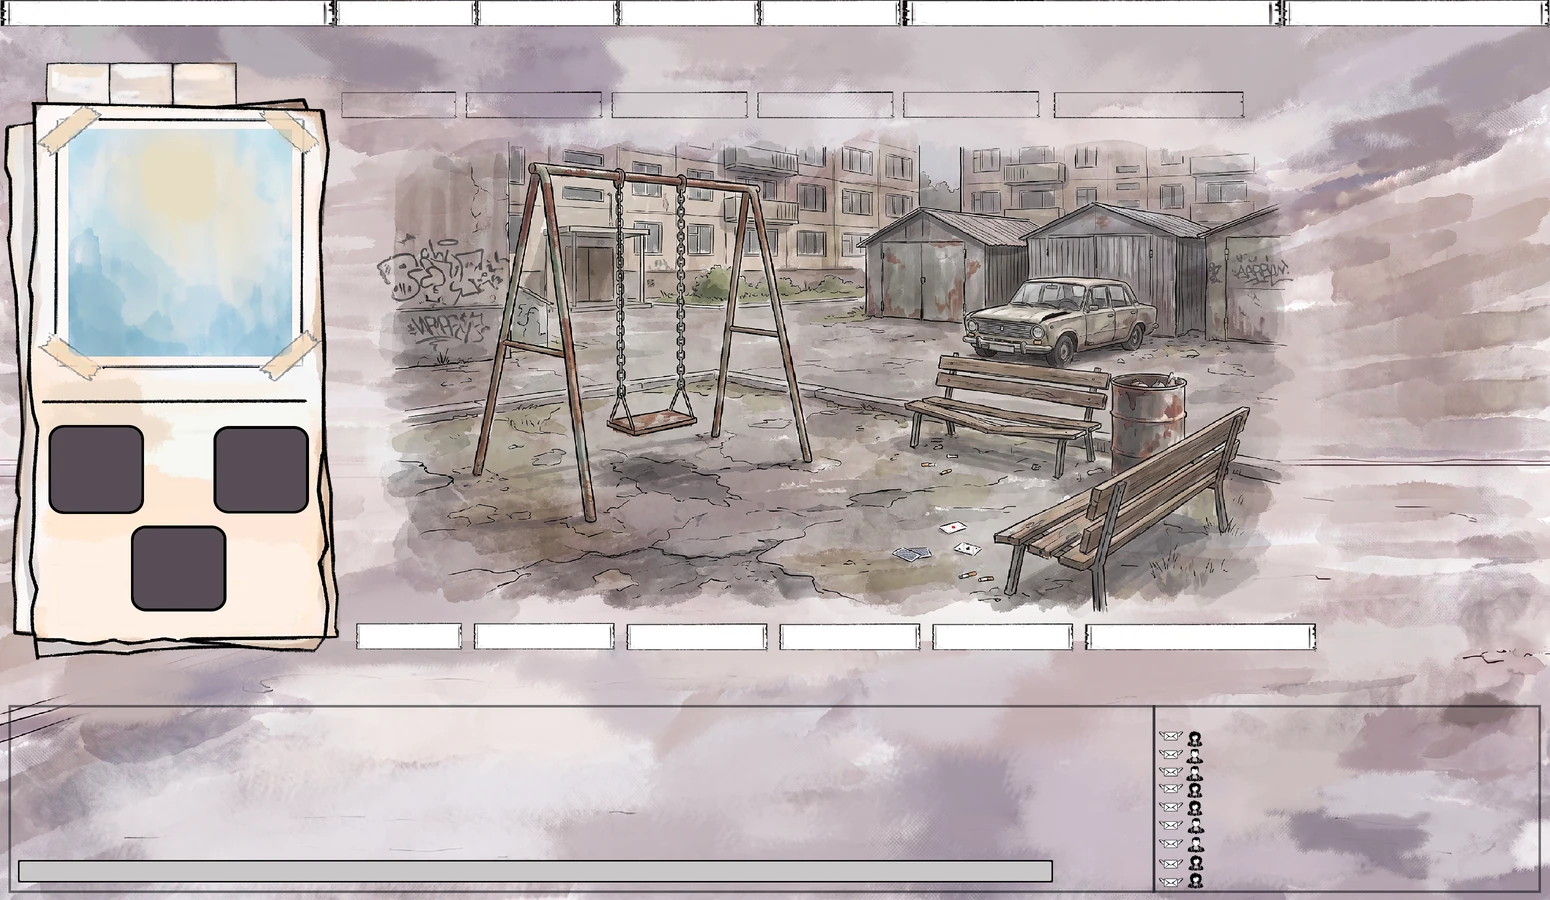
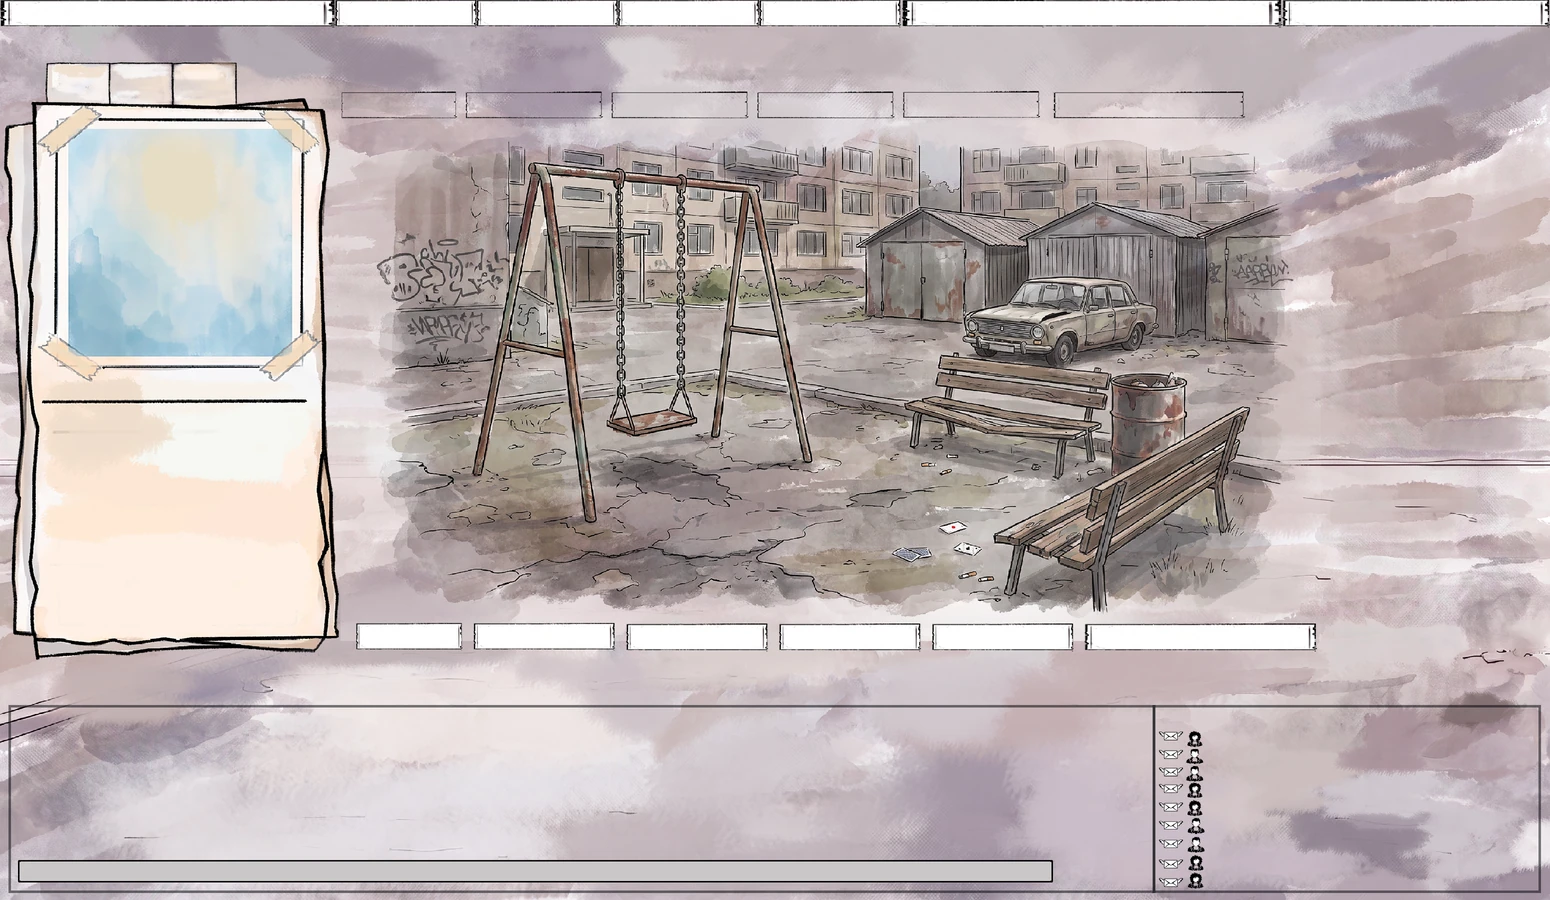
Рамки слотов вырезаны из подложки и прячутся на других вкладках
Прошлый заход был халтурой: списки клались поверх карточки листом
подходящего цвета, чтобы перекрыть напечатанные рамки слотов. Рамки —
это отдельные слои-фигуры («Прямоугольник 7») в PSD, поэтому подложка
пересобрана без них, а сами рамки стали спрайтами и рисуются только
на вкладке обзора. На вкладках со списками бумага остаётся чистой.

Поле под текст посчитано по реальному контуру бумаги: край рваный и в
самом узком месте сходится к 33.5…323.5, поэтому поле уже, чем сама
карточка. Полоса прокрутки скрыта — она забирала ширину и обрезала
значения справа. В снаряжении показываем пять строк и «ещё N →»,
чтобы последняя строка не резалась нижним краем.

Changed region(s): [[0.031, 0.4667, 0.2168, 0.6844]]

diff --git a/frontend/src/widgets/character-card/character-card.tsx b/frontend/src/widgets/character-card/character-card.tsx
@@ -36,6 +36,9 @@ function weaponSprite(item: ItemInstance | undefined): string {
   return 'item-bat'
 }
 
+/** Строк снаряжения помещается в бумагу карточки; остальное — ссылкой. */
+const GEAR_ROWS = 5
+
 export function CharacterCard() {
   const navigate = useNavigate()
   const [tab, setTab] = useState<CardTab>('overview')
@@ -134,7 +137,10 @@ export function CharacterCard() {
       {/* ── тело карточки: зависит от выбранной вкладки ──── */}
       {tab === 'overview' && (
         <>
-          {/* слоты снаряжения */}
+          {/* рамки слотов: вырезаны из подложки, поэтому рисуем их сами
+              и только здесь — на других вкладках карточка остаётся чистой */}
+          {C.slots.map(s => <Sprite key={s.key} name={`slot-frame-${s.key}`} box={s.frame} />)}
+
           <SpriteButton
             name={weaponSprite(weapon)}
             box={C.slots[0].box}
@@ -187,10 +193,10 @@ export function CharacterCard() {
       )}
 
       {tab === 'gear' && (
-        <Layer box={C.body} className="card-list card-list--sheet">
+        <Layer box={C.body} className="card-list">
           <div className="card-list__title">Надето</div>
           {equipped.length === 0 && <div className="card-list__empty">Ничего не надето</div>}
-          {equipped.map(i => (
+          {equipped.slice(0, GEAR_ROWS).map(i => (
             <button
               key={i.id}
               type="button"
@@ -206,11 +212,16 @@ export function CharacterCard() {
               <span className="card-list__dur">{i.durabilityCurrent}/{i.durabilityMax}</span>
             </button>
           ))}
+          {equipped.length > GEAR_ROWS && (
+            <button type="button" className="card-list__more" onClick={() => navigate('/inventory')}>
+              ещё {equipped.length - GEAR_ROWS} →
+            </button>
+          )}
         </Layer>
       )}
 
       {tab === 'person' && (
-        <Layer box={C.body} className="card-list card-list--sheet">
+        <Layer box={C.body} className="card-list">
           <div className="card-list__title">Личное дело</div>
           <div className="card-list__kv"><span>Уровень</span><b>{char?.battleLevel ?? '—'}</b></div>
           <div className="card-list__kv"><span>Здоровье</span><b>{hp} / {char?.hpMax ?? '—'}</b></div>

diff --git a/frontend/src/shared/lib/layout-map.ts b/frontend/src/shared/lib/layout-map.ts
@@ -70,16 +70,20 @@ export const MENU = {
     energyText: { x: 76.5, y: 189, w: 18.5 },
     hpText: { x: 240.5, y: 189, w: 39.5 },
     nickname: { x: 132.5, y: 377.5, w: 78, size: 22.7 },
+    /** frame — рамка слота, вырезанная из подложки отдельным спрайтом:
+        на вкладках со списками её нужно убирать, иначе текст ложится на неё.
+        box — габариты самого предмета внутри рамки. */
     slots: [
-      { key: 'weapon', box: box(57, 429, 78, 79), sprite: 'item-ak' },
-      { key: 'offhand', box: box(220.5, 442, 77, 63.5), sprite: 'item-bat' },
-      { key: 'pet', box: box(150.5, 527, 57.5, 83), sprite: 'item-dog' },
+      { key: 'weapon', frame: box(47.5, 424, 97.5, 91), box: box(57, 429, 78, 79), sprite: 'item-ak' },
+      { key: 'offhand', frame: box(213, 425.5, 96.5, 89), box: box(220.5, 442, 77, 63.5), sprite: 'item-bat' },
+      { key: 'pet', frame: box(130.5, 525, 96.5, 87), box: box(150.5, 527, 57.5, 83), sprite: 'item-dog' },
     ],
     /** свободное поле под ником: сюда ложатся вкладки «надето» и «личное дело».
-        Рамки слотов напечатаны на подложке, поэтому лист кладём поверх них. */
-    body: box(15.5, 406, 313, 252),
+        Границы взяты по реальному контуру бумаги: край рваный, и в самом
+        узком месте она сходится к 33.5…323.5, поэтому поле уже, чем бумага. */
+    body: box(36, 406, 282, 236),
     /** подпись выбранной зоны — под слотами, ещё внутри бумаги */
-    zoneNote: box(15.5, 618, 313, 26),
+    zoneNote: box(36, 620, 282, 24),
     /** полоска над портретом: клик по ней уводит в личное дело */
     topStrip: box(8, 100, 328, 30),
     /** зоны тела — те же пять, что в боевой системе */

diff --git a/frontend/src/styles/theme.css b/frontend/src/styles/theme.css
@@ -459,14 +459,15 @@ html, body {
   font-family: var(--font-ui); font-size: 17px; color: #17130f;
   border-top: 1px solid rgba(43, 43, 43, .35); padding-top: 4px;
 }
-.card-list { font-family: var(--font-ui); font-size: 16px; color: #17130f; overflow-y: auto; }
-/* Рамки слотов напечатаны на подложке карточки, поэтому вкладки со
-   списками кладём поверх листом бумаги — иначе текст ложится на них. */
-.card-list--sheet {
-  box-sizing: border-box; padding: 6px 12px 8px;
-  background: #fdefe4; border: 1px solid rgba(43, 43, 43, .5);
-  box-shadow: 0 2px 6px rgba(23, 19, 15, .25);
+.card-list {
+  font-family: var(--font-ui); font-size: 16px; color: #17130f;
+  overflow-y: auto;
+  /* полосу прокрутки прячем: она забирает ширину у строк и обрезает
+     значения справа, а список тут короткий и листается колесом */
+  scrollbar-width: none;
 }
+.card-list::-webkit-scrollbar { width: 0; height: 0; }
+
 .card-list__title {
   font-family: var(--font-sign); text-transform: uppercase; font-weight: 700;
   font-size: 19px; border-bottom: 1px solid #2b2b2b; padding-bottom: 3px; margin-bottom: 6px;
@@ -483,11 +484,11 @@ html, body {
 .card-list__meta { color: var(--text-dim); font-size: 14px; }
 .card-list__dur  { color: var(--durability); font-size: 14px; }
 .card-list__kv {
-  display: flex; justify-content: space-between; padding: 3px 2px;
+  display: flex; justify-content: space-between; padding: 2px 2px;
   border-bottom: 1px dotted rgba(43, 43, 43, .3);
 }
 .card-list__more {
-  margin-top: 10px; background: none; border: 0; padding: 0; cursor: pointer;
+  margin-top: 4px; background: none; border: 0; padding: 0; cursor: pointer;
   font: inherit; color: var(--red);
 }
 .card-list__more:hover { text-decoration: underline; }
